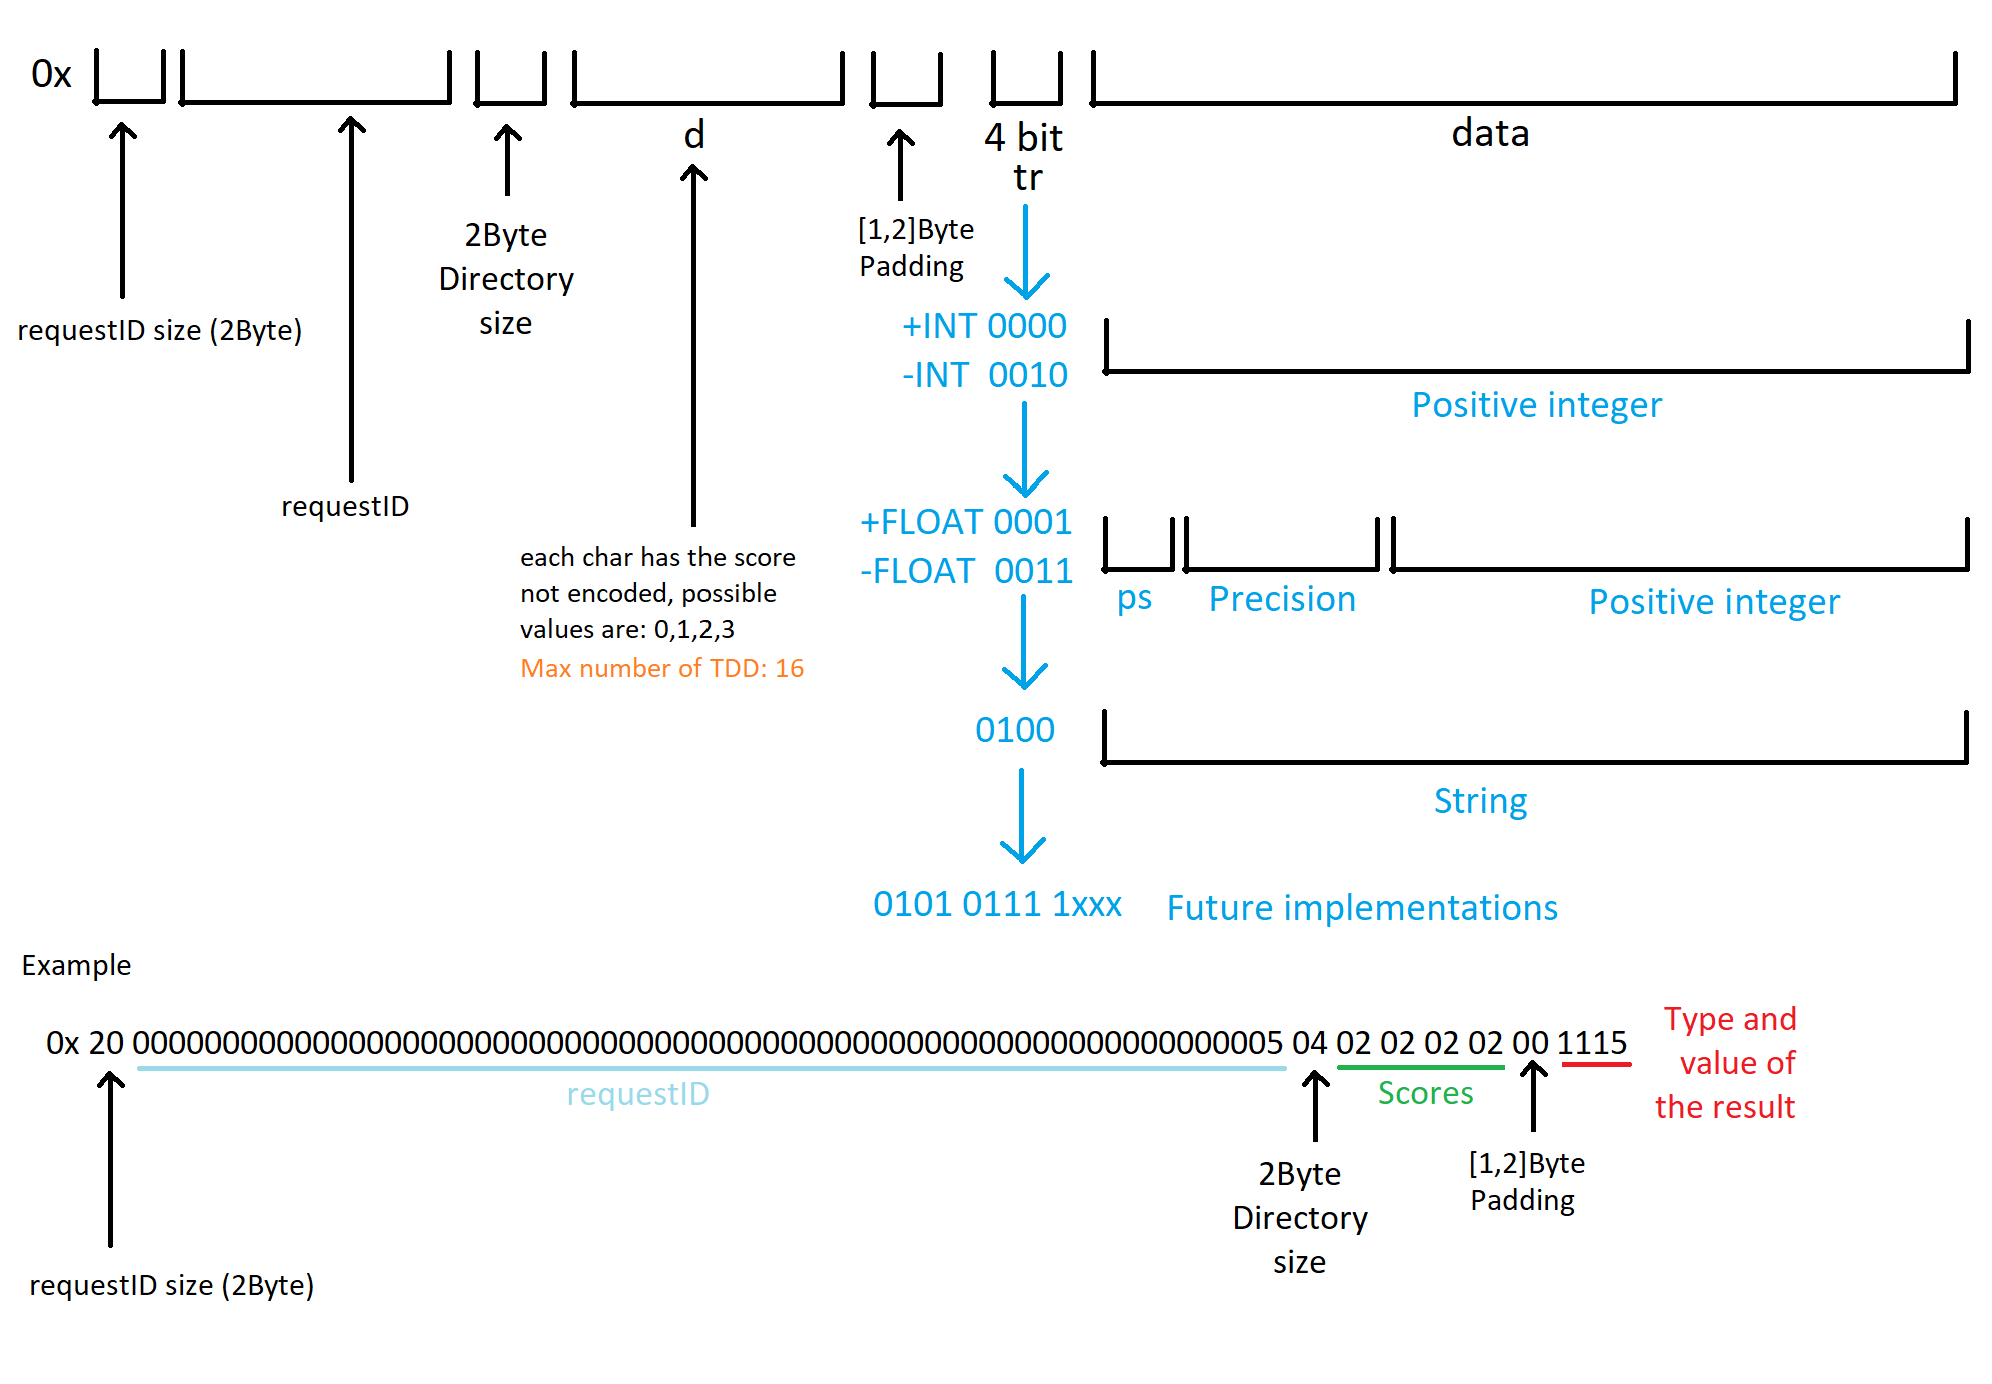
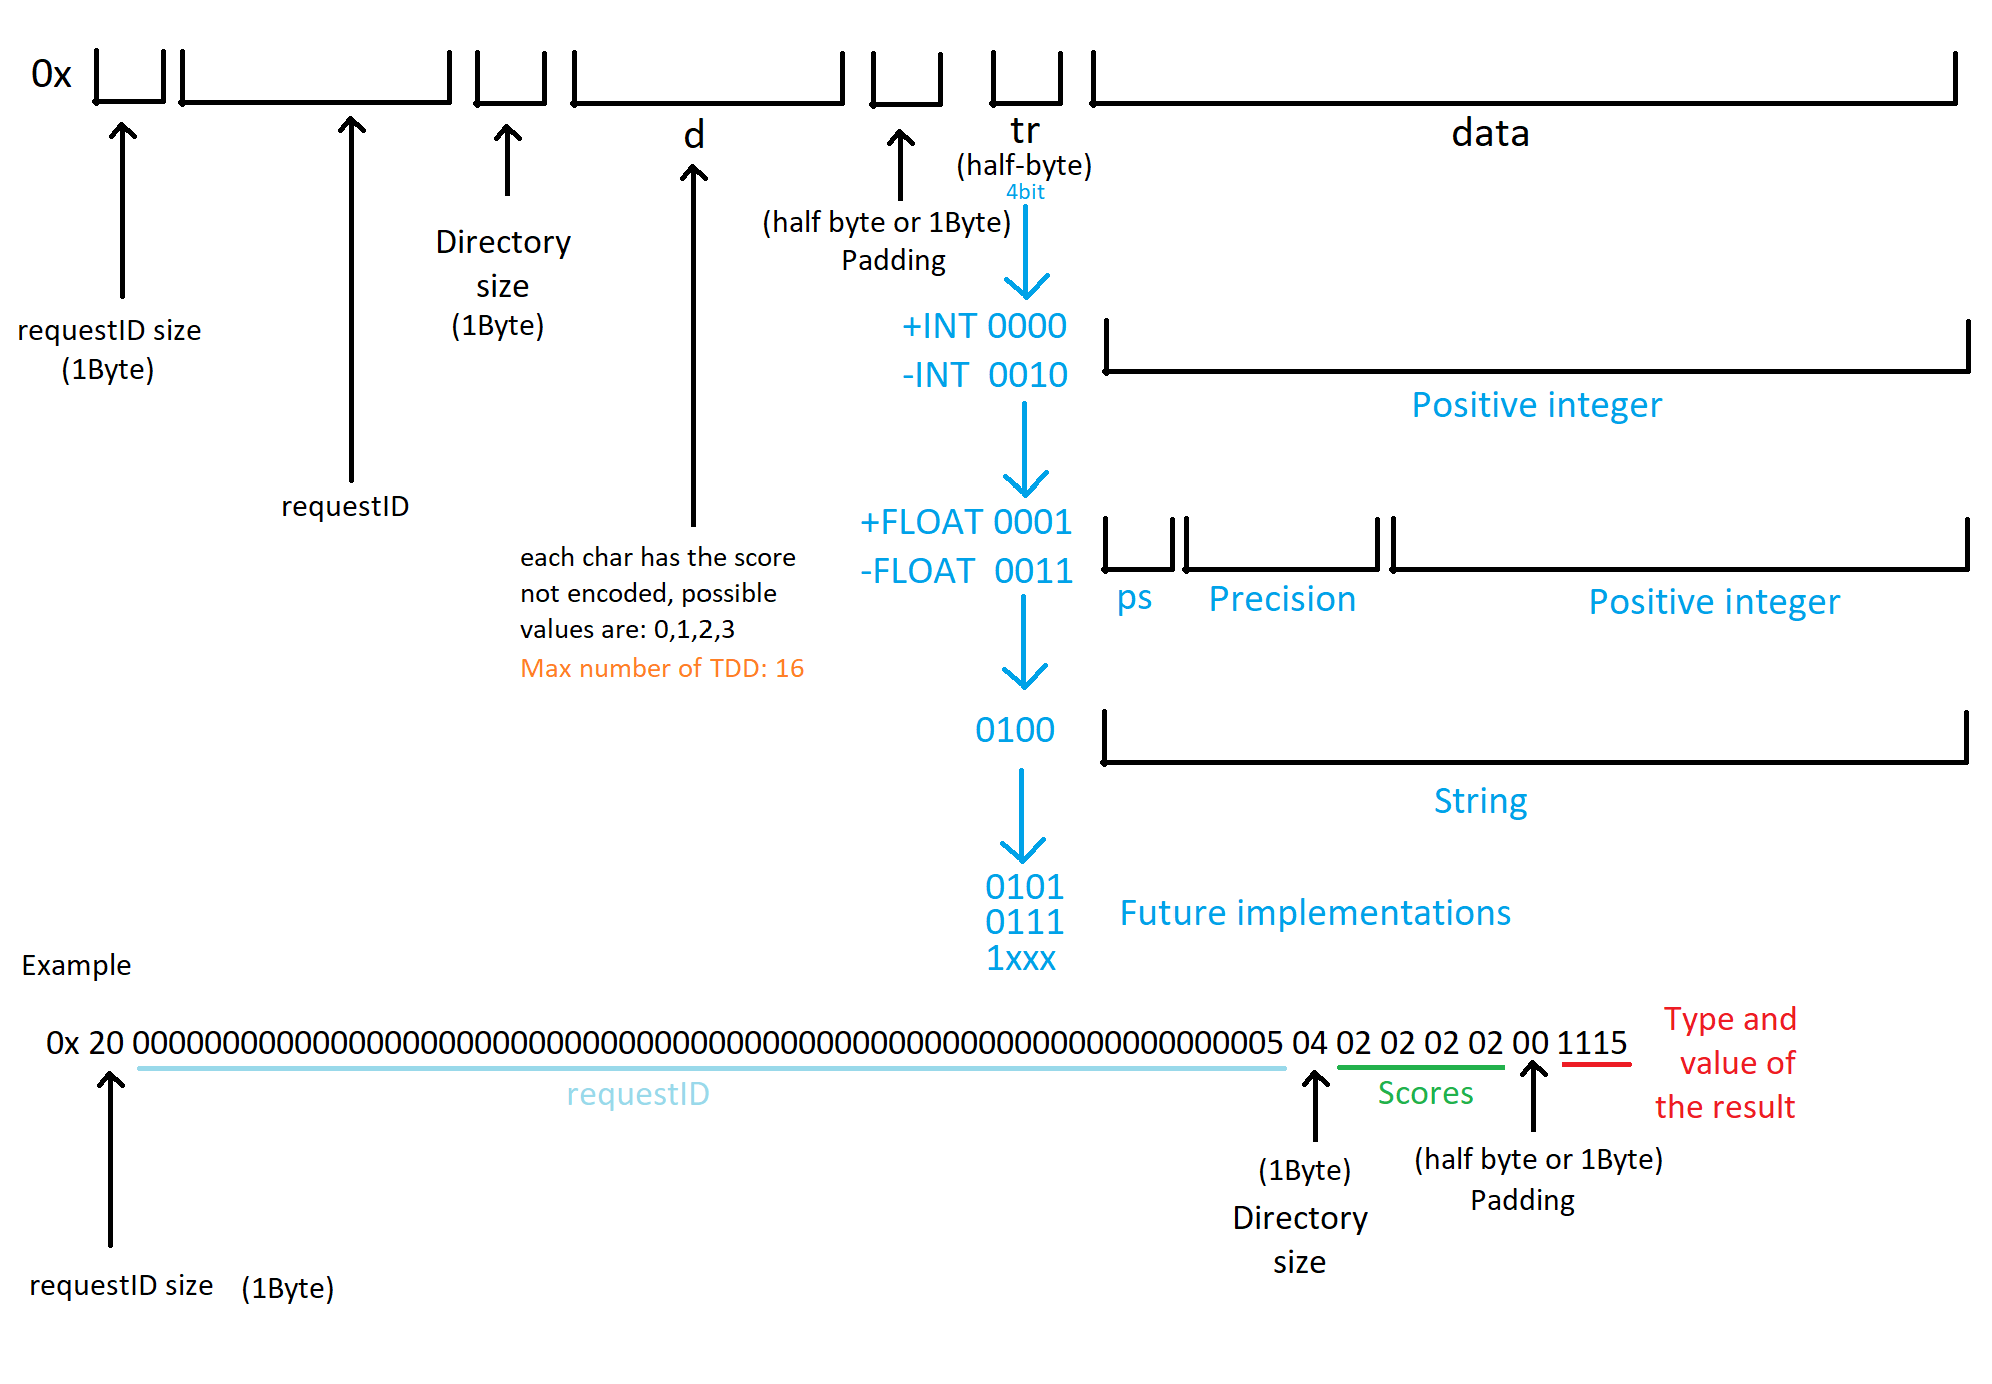
update encoder img and add new EncoderJson

diff --git a/DApp/src/component/encoder/EncoderJson.ts b/DApp/src/component/encoder/EncoderJson.ts
@@ -1,0 +1,114 @@
+import IEncoder from "./IEncoder";
+import Types from "../../const/Types";
+import {ethers} from "ethers-ts";
+
+const REQUEST_ID_SIZE = "20";
+const REQUEST_ID_LENGTH = 64;
+//new Uint32Array(8)
+
+const hexEncode = function(str:string):string{
+    var hex, i;
+
+    var result = "";
+    for (i=0; i<str.length; i++) {
+        hex = str.charCodeAt(i).toString(16);
+        result += ("000"+hex).slice(-4);
+    }
+
+    return result
+}
+
+
+
+export default class EncoderLightManual implements IEncoder{
+    
+
+    sources: Array<{ sourceIndex: number, reward: number }>;
+    encodedScores:string;
+    requestID:string;
+
+    constructor(requestID:string) {
+        this.sources= new Array<{ sourceIndex: number, reward: number }>();
+        this.encodedScores="";
+        this.requestID=REQUEST_ID_SIZE+requestID;
+    }
+
+
+
+    setSources(sources: Map<number,number>): void {
+        /*
+            Max 16 TDDs,
+            sources score are represented without encoding or compression
+            1 hex char for TDDs count, [0-F], 
+            followed by the score list [0-3]
+        */
+        for(let key of sources.keys()){
+            var score = sources.get(key);
+            if(score===null || score===undefined){
+                score=0;
+            }
+            this.sources.push({sourceIndex:key,reward:score});
+        }
+        if (this.sources.length > 16) {
+            this.sources = this.sources.splice(0, 16);
+        }
+        this.encodedScores="0"+this.sources.length.toString(16);
+        this.sources.sort((a, b) => {
+            return a.sourceIndex - b.sourceIndex;
+        }).map((a) => {
+            this.encodedScores+="0"+a.reward;
+        });
+    }
+
+    encodeNumber(numberValue: number): string {
+        const data = {type:0, value:numberValue};
+        if(numberValue>=0){
+            if(Number.isInteger(numberValue)){
+                data.type=Types.POS_INTEGER;
+            }else{
+                data.type=Types.POS_FLOAT;
+            }
+        }else{
+            if(Number.isInteger(numberValue)){
+                data.type=Types.NEG_INTEGER;
+            }else{
+                data.type=Types.NEG_FLOAT;
+            }
+        }
+        return this.requestID+this.encodedScores + ethers.utils.defaultAbiCoder.encode(["string"], [JSON.stringify(data)]);
+    }
+
+    encodeString(stringValue: string): string {
+        const data = {type:Types.STRING, value:stringValue};
+        return this.requestID+this.encodedScores+ethers.utils.defaultAbiCoder.encode(["string"], [JSON.stringify(data)]);
+    }
+
+    decode(callbackData: string): any {
+
+        const _requestIDSize =REQUEST_ID_SIZE.length;
+        const _requestID = REQUEST_ID_LENGTH;
+        const requestID = callbackData.substring(_requestIDSize,_requestID+_requestIDSize);
+
+        var padding =_requestIDSize+_requestID;
+
+        //TDDs scores count
+        const size =parseInt(callbackData[padding]+callbackData[padding+1],16);//value->[0,15]
+        //TDDs scores list
+        const directoryList=new Array<number>();
+        for(let x=0;x<(size*2);x+=2){
+            directoryList.push(parseInt(callbackData[padding+x+2]+callbackData[padding+x+3]));//value->[0,3]
+        }
+        console.log("directoryList decoded: ", directoryList); //ok
+
+        padding =padding+2+size*2;
+        const dataEncoded=callbackData.substring(padding);
+        // console.log("dataEncoded: ", dataEncoded); //ok
+        const v = ethers.utils.defaultAbiCoder.decode(["string"], dataEncoded)[0];
+        
+        const data = JSON.parse(v);
+  
+        return {data,dirs:directoryList,requestID:requestID}
+    }
+
+
+}
